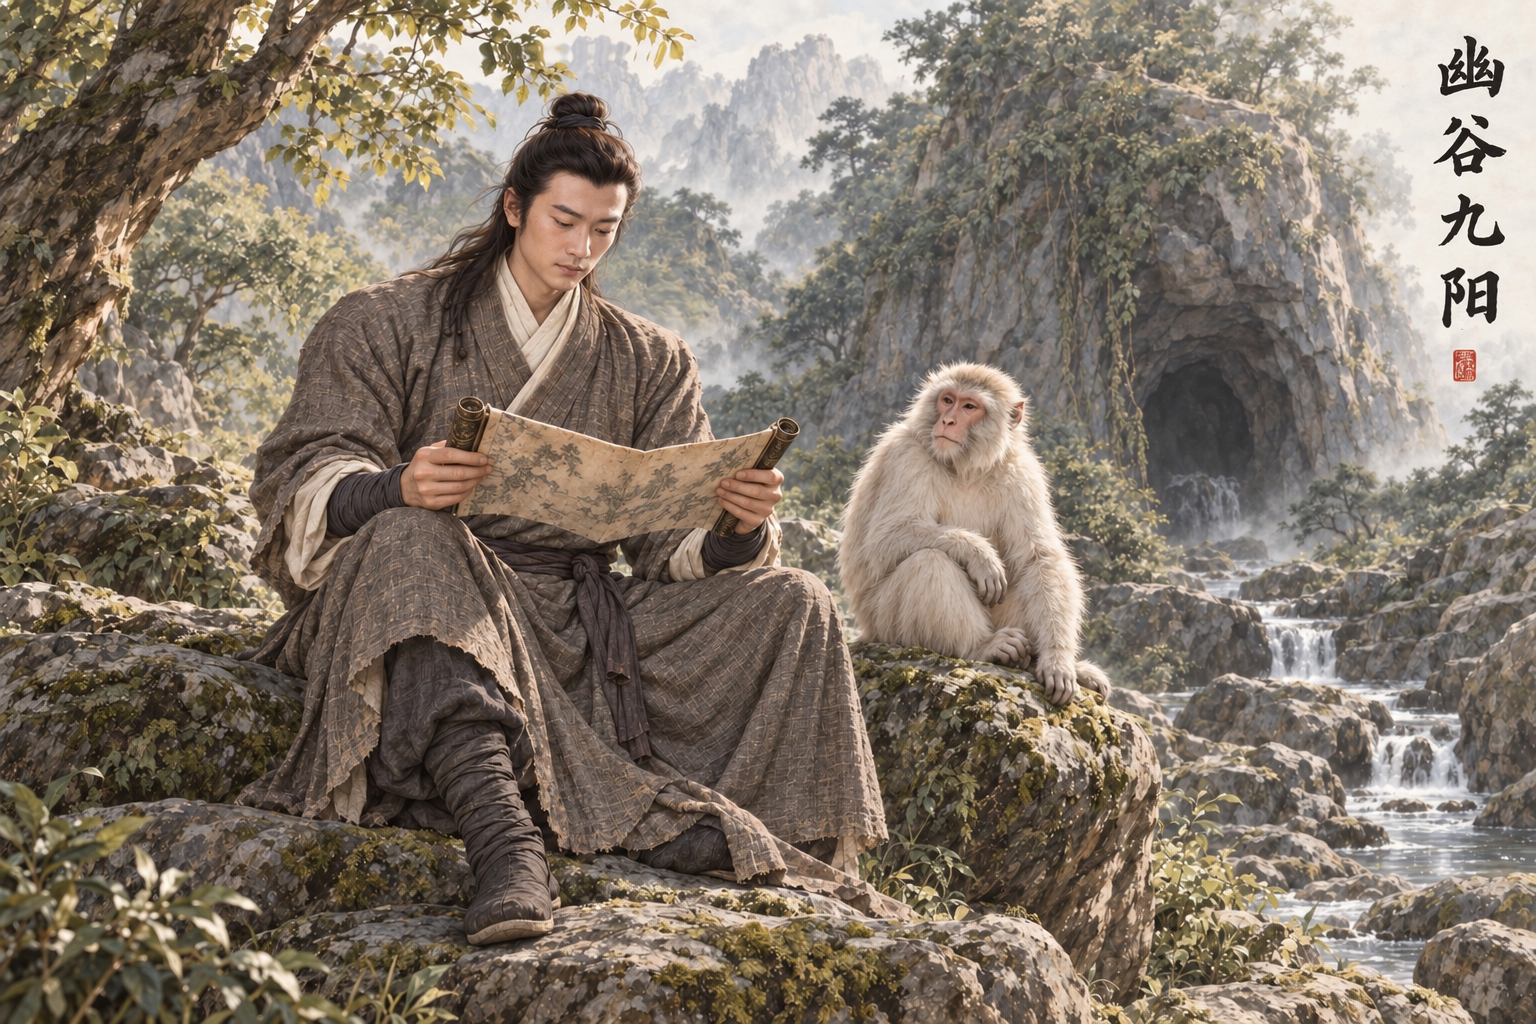
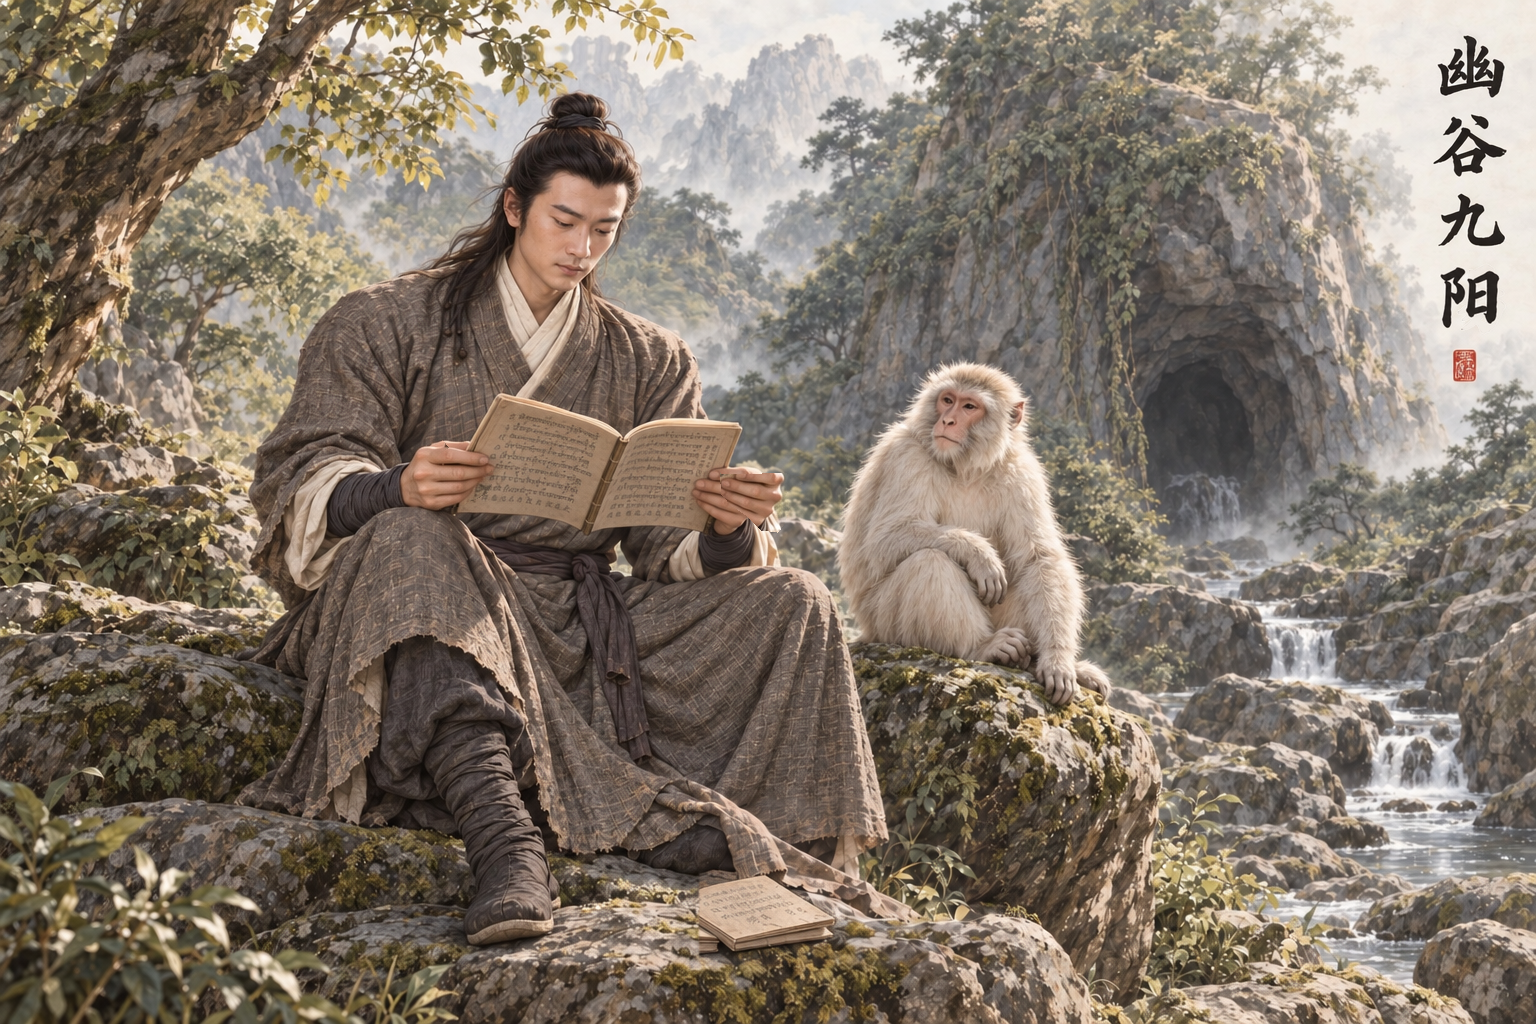
assets: AR-82 原著核对返修 九阳幽谷插图同步四本薄经书及油布包
原著摘句已同步提示词；已打开验图；蒙版外0像素变化。

Executed-By: Codex gpt-6.1-sol（AR-82）

Changed region(s): [[0.2812, 0.375, 0.5312, 0.5625], [0.4375, 0.8438, 0.5625, 0.9375], [0.5938, 0.8438, 0.625, 0.9062]]

diff --git a/assets/default/prompts/scenes/ch04-yitian/cg_ch04_jiuyang_valley.md b/assets/default/prompts/scenes/ch04-yitian/cg_ch04_jiuyang_valley.md
@@ -45,3 +45,8 @@ composite_job: cg_ch04_jiuyang_valley.resume3
 ## 原著与美术边界
 
 取景、服色与站位为（原创扩展美术设计）；精确回目与动作时序（待考），以三联／广州修订版核对。
+
+## 原著依据
+
+- 《倚天屠龙记》十六 剥极而复参九阳：“四本薄薄的经书”；https://www.xuges.com/wuxia/jinyong/yttlj/112.htm
+- AR-82 返修约束（本节优先于历史提示词）：只把张无忌两手捧的山水卷轴改为一本打开的薄经书，经文为异文夹蝇头汉字，不画山水卷。身旁前下方石上放另三本薄经书及打开油布包，总共四本。手指、脸、体格、衣服、白猿、山水风景和题字印章全不动。
